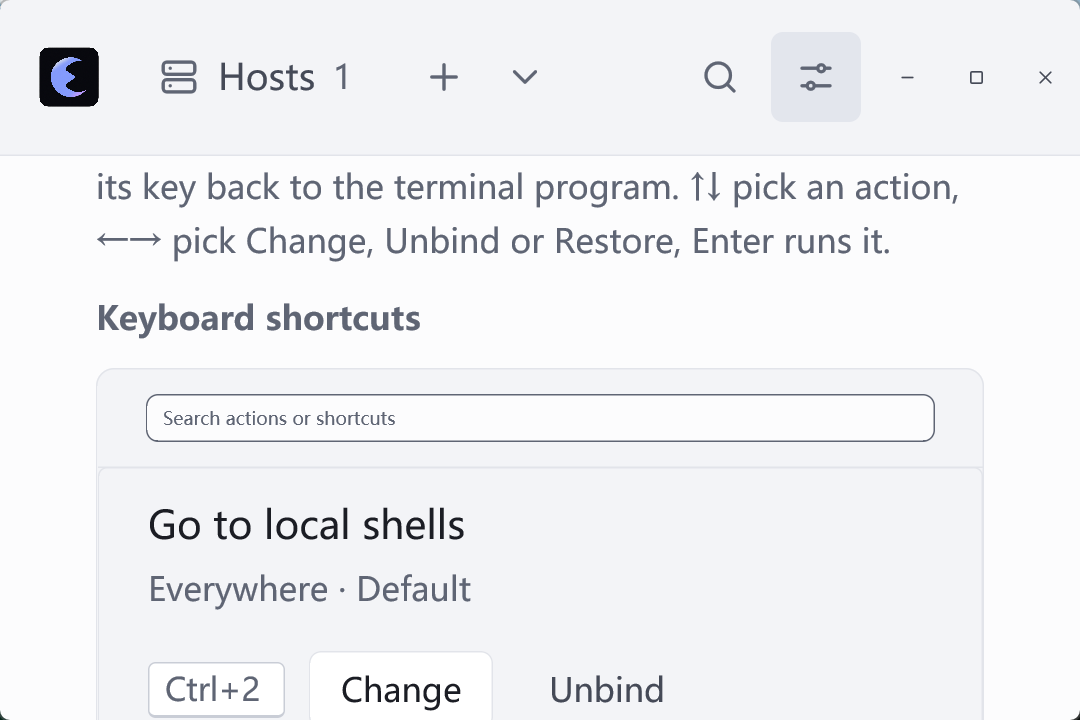
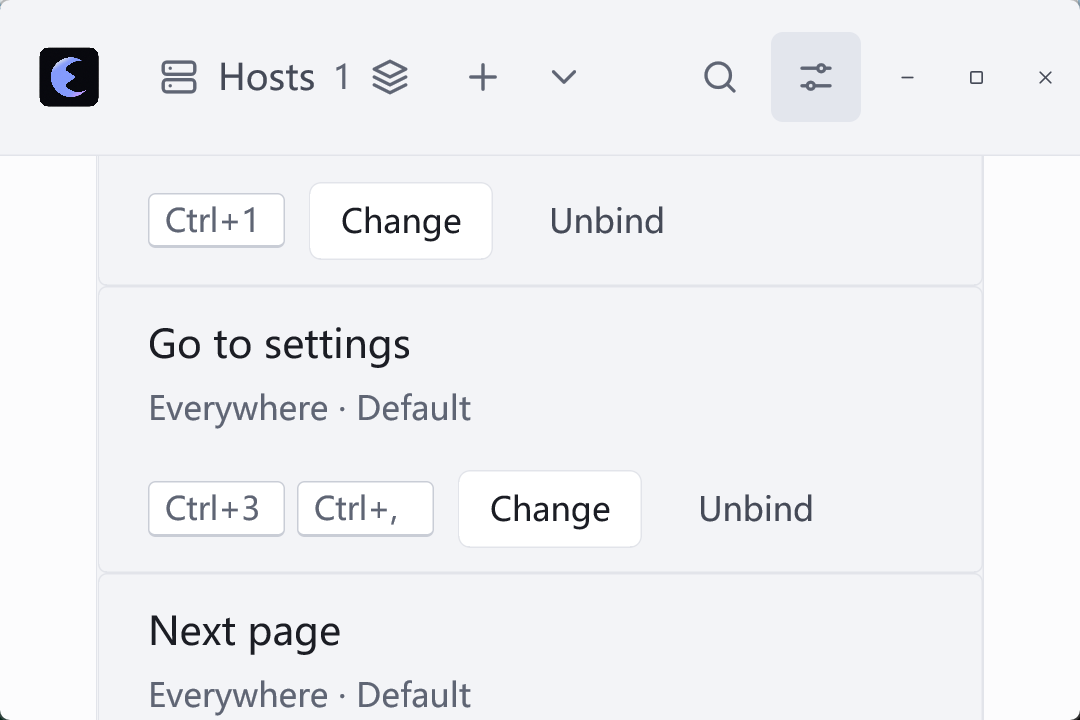
fix: 让连接对话框标题在最小窗口整词换行
Sakullla-Task: T1
Sakullla-Attempt: T1-A11

diff --git a/src/app/view/shell.rs b/src/app/view/shell.rs
@@ -1772,6 +1772,23 @@ impl ShelluneView {
         // icon it wrapped one glyph per line, and in the fixed header a full sentence
         // at 200% text left the body 24px tall, so the editor could not be scrolled
         // into view (R4).
+        // A status chip on this row is flex_none. At 720×480 and 200% the title
+        // column is then narrower than one word, and truncate cuts a glyph with no
+        // ellipsis. The chip takes the next row and the title wraps on spaces.
+        let wrapping = badge.is_some();
+        let title = div()
+            .min_w(px(0.0))
+            .text_size(metrics.heading_size())
+            .font_weight(FontWeight::SEMIBOLD)
+            .text_color(theme::swatch(palette::TEXT_PRIMARY))
+            .when(wrapping, |title| title.w_full().whitespace_normal())
+            .when(!wrapping, |title| title.flex_1().truncate())
+            .child(SharedString::from(title));
+        let title = if wrapping {
+            div().flex_1().min_w(px(0.0)).child(title)
+        } else {
+            title
+        };
         let bar = div()
             .flex()
             .flex_none()
@@ -1796,17 +1813,7 @@ impl ShelluneView {
                         theme::swatch(palette::ACCENT),
                     ))
             }))
-            .child(
-                div()
-                    .flex_1()
-                    .min_w(px(0.0))
-                    .truncate()
-                    .text_size(metrics.heading_size())
-                    .font_weight(FontWeight::SEMIBOLD)
-                    .text_color(theme::swatch(palette::TEXT_PRIMARY))
-                    .child(SharedString::from(title)),
-            )
-            .children(badge)
+            .child(title)
             .child(
                 components::icon_only_button(Icon::Close, metrics)
                     .id(close_id)
@@ -1816,6 +1823,25 @@ impl ShelluneView {
                         close(this, cx);
                     })),
             );
+        let bar = if let Some(badge) = badge {
+            div()
+                .flex()
+                .flex_col()
+                .flex_none()
+                .w_full()
+                .min_w(px(0.0))
+                .child(bar)
+                .child(
+                    div()
+                        .w_full()
+                        .min_w(px(0.0))
+                        .px(metrics.scale(spacing::LOOSE))
+                        .pb(metrics.scale(spacing::TIGHT))
+                        .child(badge),
+                )
+        } else {
+            bar
+        };
         let subtitle = subtitle.map(|subtitle| {
             div()
                 // Whole words across the dialog. A single-line truncate cut the
@@ -1888,9 +1914,13 @@ impl ShelluneView {
         let header = div()
             .flex()
             .w_full()
-            .items_center()
+            .items_start()
             .pl(metrics.scale(spacing::LOOSE))
-            .child(host_avatar(host.name(), false, metrics))
+            .child(
+                div()
+                    .pt(metrics.scale(spacing::SNUG))
+                    .child(host_avatar(host.name(), false, metrics)),
+            )
             .child(header.flex_1().min_w(px(0.0)).pl(metrics.scale(spacing::SNUG)));
         let body = div()
             .flex()
